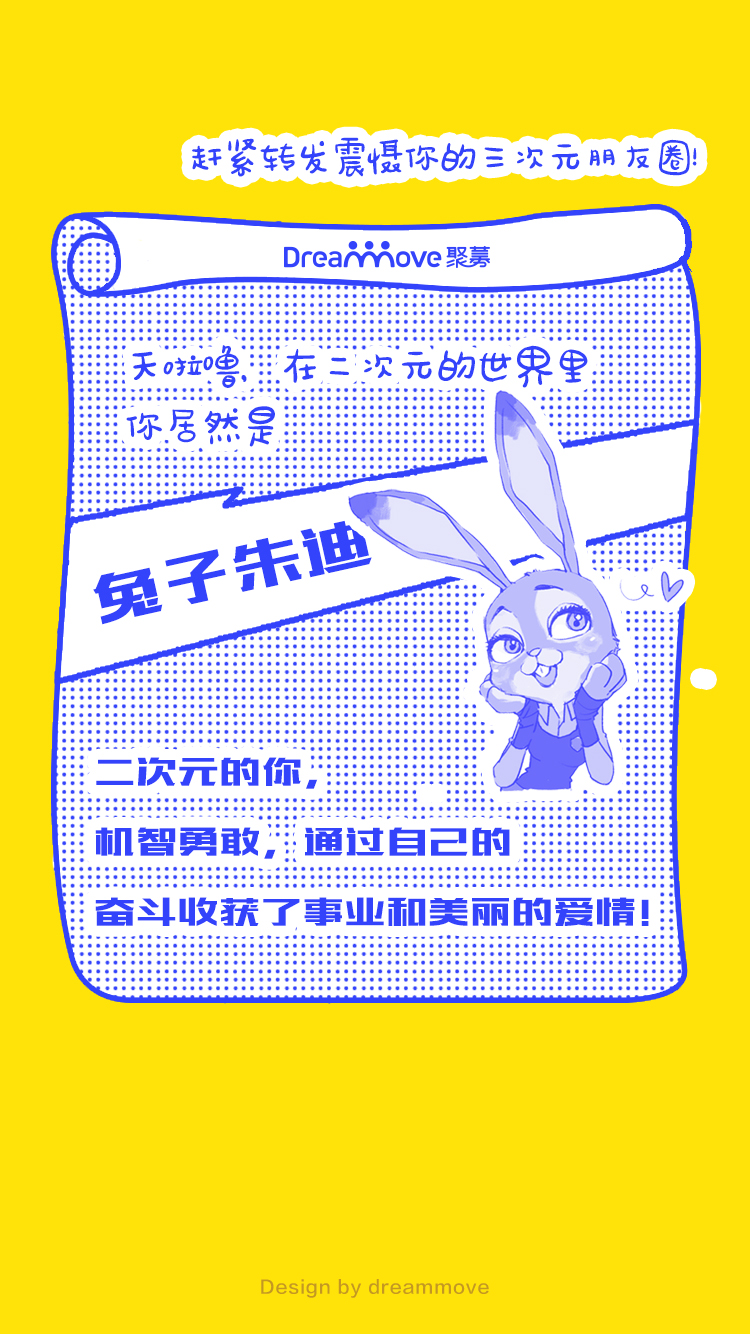
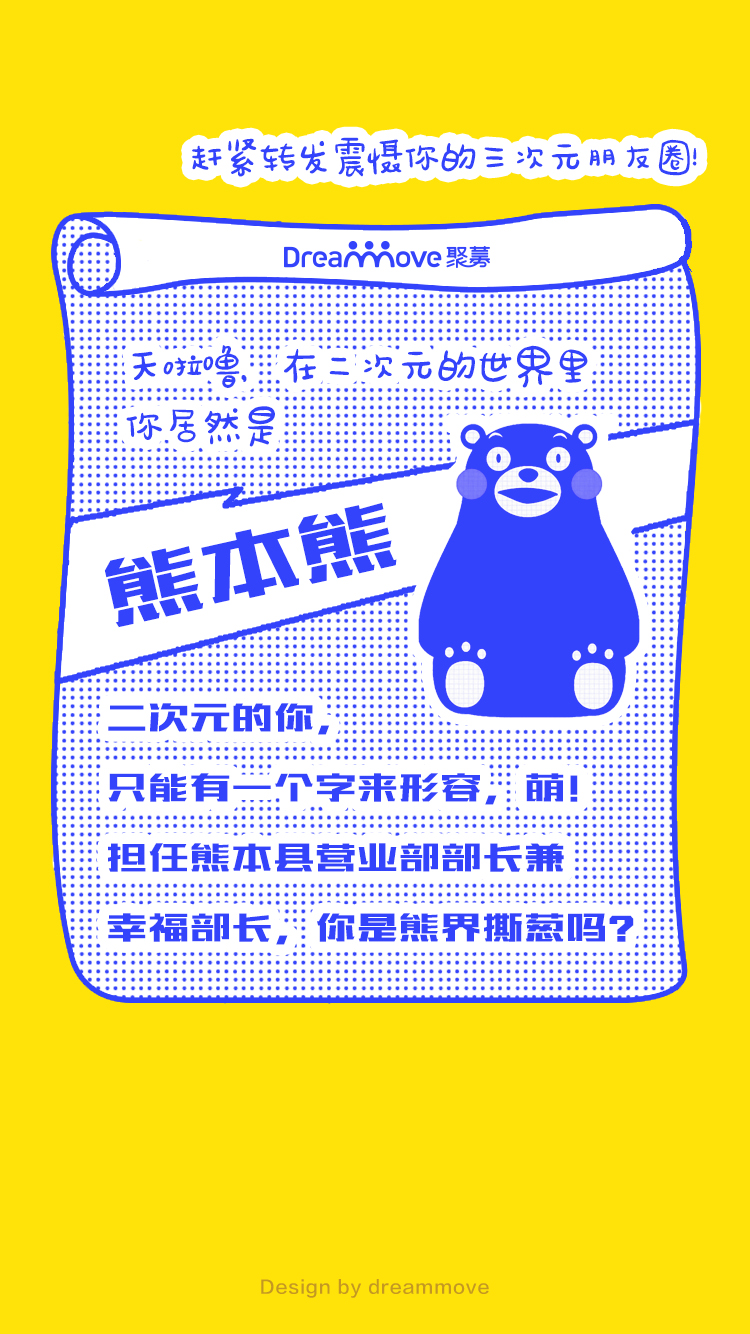
1

Changed region(s): [[0.1227, 0.2766, 0.92, 0.7069], [0.92, 0.4918, 0.9507, 0.5225]]

diff --git a/Public/Home/css/neta.css b/Public/Home/css/neta.css
@@ -134,8 +134,8 @@ to{-webkit-transform:translate3d(0,0,0);transform:translate3d(0,0,0)}
 }
 .view-age,.view-sex{background:url(../img/neta/bg-b.jpg) center no-repeat;background-size:100% 100%}
 .view-age.in .a.rise,.view-age.in .b.rise,.view-age.in .c.rise,.view-sex.in .a.rise,.view-sex.in .b.rise,.view-sex.in .c.rise{-webkit-animation:rise .7s both;animation:rise .7s both}
-.view-age.in .b.rise,.view-sex.in .b.rise{-webkit-animation-delay:.42s;animation-delay:.42s}
-.view-age.in .c.rise,.view-sex.in .c.rise{-webkit-animation-delay:.84s;animation-delay:.84s}
+.view-age.in .b.rise,.view-sex.in .b.rise{-webkit-animation-delay:.25s;animation-delay:.25s}
+.view-age.in .c.rise,.view-sex.in .c.rise{-webkit-animation-delay:.5s;animation-delay:.5s}
 .view-age .circle,.view-sex .circle{background-image:url(../img/neta/circle.gif);width:16.32rem;height:15.46667rem;top:15.5922%;left:11.73333%}
 .view-age .a,.view-age .b,.view-age .c,.view-sex .a,.view-sex .b,.view-sex .c{width:11.86667rem;height:3.06667rem;left:23.33333%;position:absolute;background-size:contain;background-position:center;background-repeat:no-repeat}
 .view-age .a,.view-sex .a{background-image:url(../img/neta/b-a.png);top:61.09445%}
@@ -169,6 +169,7 @@ to{-webkit-transform:translate3d(0,0,0);transform:translate3d(0,0,0)}
 .view-result.c-6{background-image:url(../img/neta/result/c-6.jpg)}
 .view-result.in .icon-share{-webkit-animation:blink 3s 1s infinite;animation:blink 3s 1s infinite}
 .view-result.in .link{-webkit-animation:rise .8s;animation:rise .8s}
+.view-result.in .link.swing{-webkit-animation:swing 2s infinite;animation:swing 2s infinite}
 .view-result .icon-share{background-image:url(../img/neta/icon-share.png);width:1.57333rem;height:2.24rem;top:1.1994%;right:4.66667%}
 .view-result .link{background-image:url(../img/neta/link-project.png);width:14.82667rem;height:5.76rem;left:13.33333%;bottom:6.44678%}
 .option.active{-webkit-filter:hue-rotate(100deg);filter:hue-rotate(100deg)}
@@ -188,3 +189,17 @@ to{-webkit-transform:translate3d(0,0,0);transform:translate3d(0,0,0)}
 15%,5%{opacity:0;filter:alpha(opacity=0)}
 }
 .blink{-webkit-animation:blink 3s infinite;animation:blink 3s infinite}
+@-webkit-keyframes swing{0%{-webkit-transform-origin:center -10px;transform-origin:center -10px}
+10%{-webkit-transform:rotate(9deg);transform:rotate(9deg)}
+20%{-webkit-transform:rotate(-6deg);transform:rotate(-6deg)}
+30%{-webkit-transform:rotate(3deg);transform:rotate(3deg)}
+40%{-webkit-transform:rotate(-3deg);transform:rotate(-3deg)}
+100%,50%{-webkit-transform:rotate(0);transform:rotate(0)}
+}
+@keyframes swing{0%{-webkit-transform-origin:center -10px;transform-origin:center -10px}
+10%{-webkit-transform:rotate(9deg);transform:rotate(9deg)}
+20%{-webkit-transform:rotate(-6deg);transform:rotate(-6deg)}
+30%{-webkit-transform:rotate(3deg);transform:rotate(3deg)}
+40%{-webkit-transform:rotate(-3deg);transform:rotate(-3deg)}
+100%,50%{-webkit-transform:rotate(0);transform:rotate(0)}
+}

diff --git a/Public/Home/js/neta.js b/Public/Home/js/neta.js
@@ -1,3 +1,47 @@
+var characterInfo = {
+    a1: "张起灵",
+    a2: "美国队长",
+    a3: "狐狸尼克",
+    a4: "银时",
+    a5: "路飞",
+    a6: "柯南",
+    b1: "绫波丽",
+    b2: "冰雪女王Anna",
+    b3: "兔子朱迪",
+    b4: "美少女战士",
+    b5: "百变小樱",
+    b6: "樱桃小丸子",
+    c1: "大白",
+    c2: "熊本熊",
+    c3: "乔巴",
+    c4: "麦兜",
+    c5: "皮卡丘",
+    c6: "海绵宝宝"
+}
+var getShareTitle = function (charactor) {
+    return userInfo.nickname + "居然是" + characterInfo[charactor] + "流浪在三次元的街头，快来看看你是谁！"
+}
+var share = function (character) {
+    var shareTitle = getShareTitle(character)
+    var shareObj = {
+        title: shareTitle,
+        desc: shareTitle,
+        link: 'http://wx.dreammove.cn/neta/index.html?nickname=' + userInfo.nickname,
+        imgUrl: userInfo.headimgurl || 'http://wx.dreammove.cn/Public/Home/img/neta/share-img.jpg'
+    }
+
+    shareObj.success = function () {
+
+    }
+    shareObj.cancel = function () {
+
+    }
+    wx.ready(function () {
+        wx.onMenuShareTimeline(shareObj)
+        wx.onMenuShareAppMessage(shareObj)
+    })
+}
+
 $(function () {
     var $views = $('.view')
     $views.find('.next').on('click', function () {
@@ -29,11 +73,21 @@ $(function () {
     $('.btn-result').on('click', function () {
         var sex = $('.view-sex .active').data('value')
         var age = $('.view-age .active').data('value')
+        if (!sex || !age) return;
         var rAge = (ageMean[age] || 0) + Math.random() * 4
         rAge = Math.round(rAge)
-        if (rAge < 0) rAge = 0
+        if (rAge < 1) rAge = 1
         if (rAge > 6) rAge = 6
-        $('.view-result').removeClass().addClass('view view-result in ' + sex + '-' + rAge)
+        var $viewResult = $('.view-result').removeClass().addClass('view view-result in ' + sex + '-' + rAge)
+        setTimeout(function () {
+            $viewResult.find('.link').removeClass('rise').addClass('swing')
+        }, 3000)
+
+
+        /*$('.view-result').css({
+            "background-image": "url(/Public/Home/img/neta/result/" + sex + "-" + rAge + ".jpg)"
+        })*/
+        share('' + sex + rAge)
     })
 
     var loaded = false
@@ -53,4 +107,6 @@ $(function () {
             loadEvent()
         }, 2000)
     })
+
+
 })

diff --git a/Public/Home/css/neta.sass b/Public/Home/css/neta.sass
@@ -237,7 +237,7 @@ input[type=number]::-webkit-outer-spin-button
     background: url("../img/neta/bg-b.jpg") no-repeat center
     background-size: 100% 100%
     $duration: .7s
-    $delay: $duration * .6
+    $delay: .25s
     &.in
         .a, .b, .c
             &.rise
@@ -288,6 +288,8 @@ input[type=number]::-webkit-outer-spin-button
             animation: blink 3s 1s infinite
         .link
             animation: rise .8s
+            &.swing
+                animation: swing 2s infinite
     .icon-share
         background-image: url(../img/neta/icon-share.png)
         +abs_img(59, 84)
@@ -298,6 +300,7 @@ input[type=number]::-webkit-outer-spin-button
         +abs_img(556, 216)
         left: x(100)
         bottom: y(86)
+
 
 .option
     &.active
@@ -322,3 +325,18 @@ input[type=number]::-webkit-outer-spin-button
 
 .blink
     animation: blink 3s infinite
+
+
+@keyframes swing
+    0%
+        transform-origin: center -10px
+    10%
+        transform: rotate(9deg)
+    20%
+        transform: rotate(-6deg)
+    30%
+        transform: rotate(3deg)
+    40%
+        transform: rotate(-3deg)
+    50%, 100%
+        transform: rotate(0deg)

diff --git a/Application/Home/View/Neta/index.html b/Application/Home/View/Neta/index.html
@@ -50,7 +50,9 @@
         <div class="loading-text"></div>
         <div class="loading-progress">
             <div class="border-blue">
-                <div class="border-white"><div class="loading-train"></div></div>
+                <div class="border-white">
+                    <div class="loading-train"></div>
+                </div>
             </div>
 
         </div>
@@ -78,10 +80,10 @@
     </div>
     <div class="view view-result">
         <div class="icon-share"></div>
-        <div class="link"></div>
+        <a class="db link"></a>
     </div>
 </div>
-<php>print_r($user_info);</php>
+
 
 <!--[if lt IE 9]>
 <script src="__STATIC__/js/jquery-1.11.3.min.js"></script>
@@ -107,7 +109,9 @@
     })
 
     var userInfo = {
-        nickname: "{$user_info.nickname}"
+        nickname: "{$user_info.nickname}",
+        unionid: "{$user_info.unionid}",
+        headimgurl: "{$user_info.headimgurl}"
     }
 
 </script>

diff --git a/Public/Home/js/mrj.js b/Public/Home/js/mrj.js
@@ -1,10 +1,4 @@
 $(function () {
-    var getShareObj = function (bmiText) {
-        var shareObj
-        if (bmiText === 'thin') {
-
-        }
-    }
     var share = function (bmi, bmi_text, value) {
         var shareObj
         if (bmi_text === 'thin') {

diff --git a/Application/Home/Controller/NetaController.class.php b/Application/Home/Controller/NetaController.class.php
@@ -14,13 +14,24 @@ class NetaController extends Controller
     public function index()
     {
         $MP = C('MP');
-        if ($_GET['code']) {
-            $userInfo = get_weixin_user_info();
+        $nickname = session('nickname');
+        if ($nickname || $_GET['code']) {
+            if ($nickname) {
+                $userInfo = Array(
+                    'nickname' => $nickname,
+                    'unionid' => session('unionid'),
+                    'headimgurl' => session('headimgurl')
+                );
+            } else {
+                $userInfo = get_weixin_user_info();
+                if ($userInfo['errcode']) {
+                    $this->redirectAuth();
+                }
 
-            if ($userInfo['errcode']) {
-                $this->redirectAuth();
+                session('nickname', $userInfo['nickname']);
+                session('unionid', $userInfo['unionid']);
+                session('headimgurl', $userInfo['headimgurl']);
             }
-
             $this->user_info = $userInfo;
             $this->appid = $MP['APP_ID'];
             $cached_signature = cache_signature();
@@ -29,6 +40,5 @@ class NetaController extends Controller
         } else {
             $this->redirectAuth();
         }
-
     }
 }

diff --git a/Application/Home/Conf/config.php b/Application/Home/Conf/config.php
@@ -9,7 +9,7 @@ return array(
 
     'SITE_DOMAIN' => 'wx.dreammove.cn',
 
-    'MP' => array( // 微信公众号
+    'MP' => array( // 微信公众号聚募网
         'APP_ID' => 'wx2359f58110dc66e0',
         'APP_SECRET' => '7e83638026e46aec964dd3f9af8a3f06',
         'GRANT_TYPE' => 'client_credential'),
